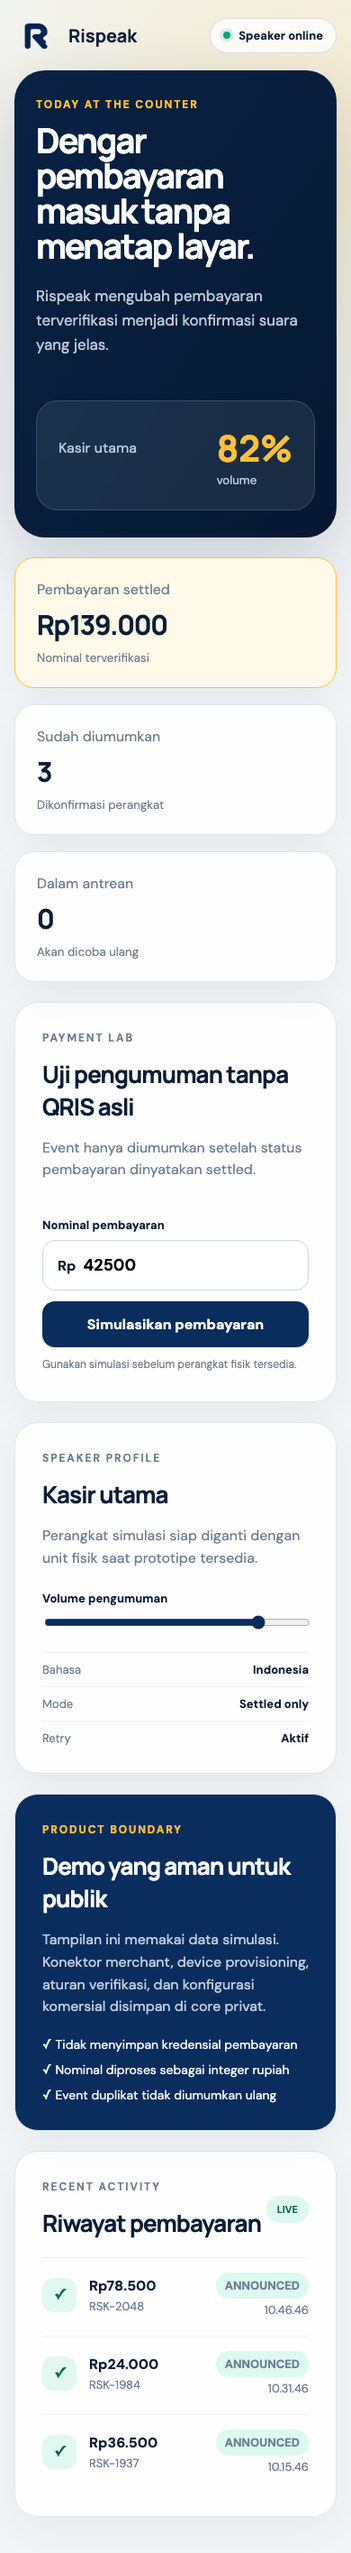
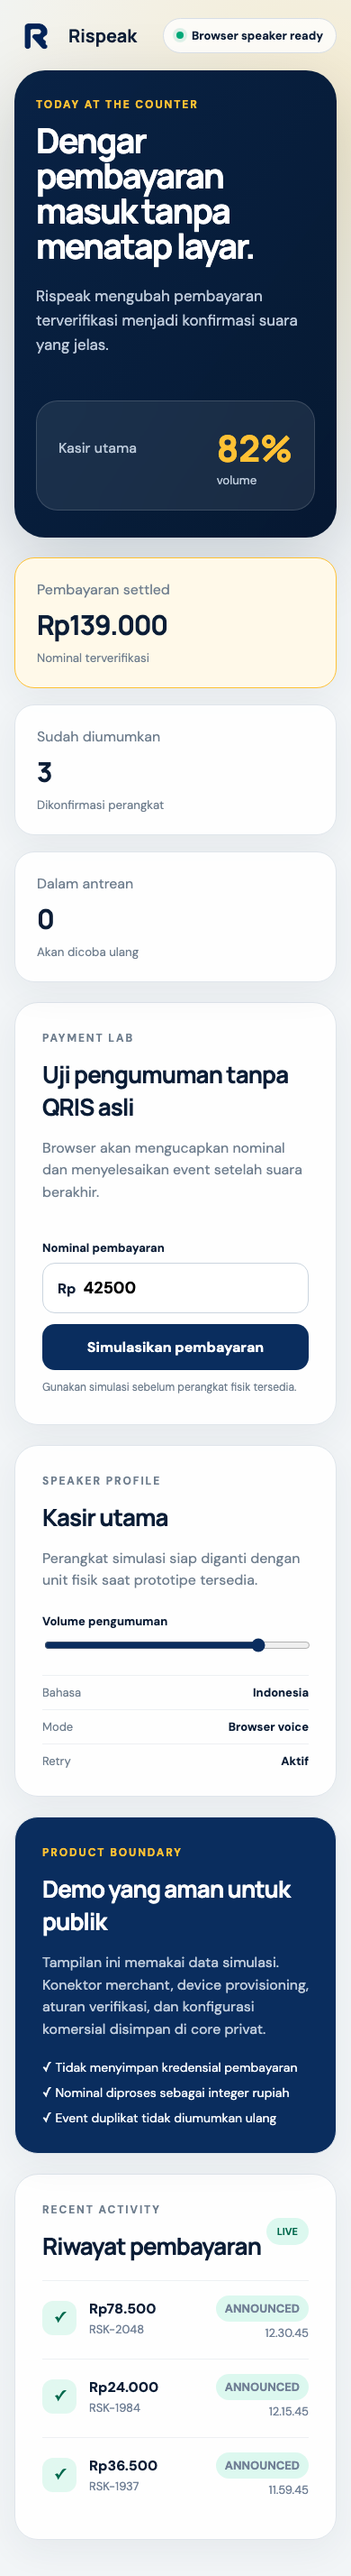
feat: add browser payment voice simulator

diff --git a/src/main.tsx b/src/main.tsx
@@ -1,10 +1,12 @@
-import { StrictMode, useMemo, useState } from 'react';
+import { StrictMode, useEffect, useMemo, useState } from 'react';
 import { createRoot } from 'react-dom/client';
 import { MetricCard } from './components/MetricCard';
 import { PaymentSimulator } from './components/PaymentSimulator';
 import { TransactionList } from './components/TransactionList';
 import { initialPayments, type DemoPayment } from './data/demo';
 import { calculateMetrics } from './data/metrics';
+import { formatPaymentAnnouncement } from './services/announcement';
+import { createBrowserSpeaker } from './services/browserSpeaker';
 import './styles/app.css';
 
 const rupiah = new Intl.NumberFormat('id-ID');
@@ -12,8 +14,12 @@ const rupiah = new Intl.NumberFormat('id-ID');
 function App() {
   const [payments, setPayments] = useState(initialPayments);
   const [volume, setVolume] = useState(82);
+  const [speakerState, setSpeakerState] = useState<'ready' | 'speaking' | 'error'>('ready');
+  const speaker = useMemo(() => createBrowserSpeaker(), []);
 
   const metrics = useMemo(() => calculateMetrics(payments), [payments]);
+
+  useEffect(() => () => speaker.cancel(), [speaker]);
 
   const simulate = async (amountRupiah: number) => {
     const id = `demo-${Date.now()}`;
@@ -27,11 +33,28 @@ function App() {
     };
     setPayments((current) => [payment, ...current]);
 
-    await new Promise((resolve) => window.setTimeout(resolve, 900));
-    setPayments((current) =>
-      current.map((item) => (item.id === id ? { ...item, announcementStatus: 'announced' } : item)),
-    );
+    setSpeakerState('speaking');
+    try {
+      await speaker.speak(formatPaymentAnnouncement(amountRupiah), volume);
+      setPayments((current) =>
+        current.map((item) =>
+          item.id === id ? { ...item, announcementStatus: 'announced' } : item,
+        ),
+      );
+      setSpeakerState('ready');
+    } catch (error) {
+      setSpeakerState('error');
+      throw error;
+    }
   };
+
+  const speakerLabel = !speaker.supported
+    ? 'Speech unavailable'
+    : speakerState === 'speaking'
+      ? 'Speaking payment'
+      : speakerState === 'error'
+        ? 'Speaker needs attention'
+        : 'Browser speaker ready';
 
   return (
     <div className="app-shell">
@@ -46,7 +69,7 @@ function App() {
         <div className="topbar-actions">
           <span className="demo-badge">Portfolio demo</span>
           <div className="device-pill">
-            <i className="online" /> Speaker online
+            <i className={speaker.supported ? speakerState : 'error'} /> {speakerLabel}
           </div>
         </div>
       </header>
@@ -107,7 +130,7 @@ function App() {
                 Bahasa <strong>Indonesia</strong>
               </span>
               <span>
-                Mode <strong>Settled only</strong>
+                Mode <strong>Browser voice</strong>
               </span>
               <span>
                 Retry <strong>Aktif</strong>

diff --git a/tests/browserSpeaker.test.ts b/tests/browserSpeaker.test.ts
@@ -1,0 +1,73 @@
+import { describe, expect, it, vi } from 'vitest';
+import { createBrowserSpeaker } from '../src/services/browserSpeaker';
+
+class FakeUtterance {
+  lang = '';
+  rate = 1;
+  pitch = 1;
+  volume = 1;
+  voice: SpeechSynthesisVoice | null = null;
+  onend: (() => void) | null = null;
+  onerror: (() => void) | null = null;
+
+  constructor(readonly text: string) {}
+}
+
+describe('createBrowserSpeaker', () => {
+  it('resolves only after the browser finishes speaking', async () => {
+    let activeUtterance: FakeUtterance | undefined;
+    const cancel = vi.fn();
+    const synthesis = {
+      cancel,
+      getVoices: () => [],
+      speak: (utterance: FakeUtterance) => {
+        activeUtterance = utterance;
+      },
+    };
+    const browser = {
+      clearTimeout,
+      setTimeout,
+      speechSynthesis: synthesis,
+      SpeechSynthesisUtterance: FakeUtterance,
+    } as unknown as Window & typeof globalThis;
+    const speaker = createBrowserSpeaker(browser);
+
+    let finished = false;
+    const playback = speaker.speak('Pembayaran diterima.', 64).then(() => {
+      finished = true;
+    });
+
+    expect(finished).toBe(false);
+    expect(activeUtterance?.lang).toBe('id-ID');
+    expect(activeUtterance?.volume).toBe(0.64);
+    activeUtterance?.onend?.();
+    await playback;
+    expect(finished).toBe(true);
+  });
+
+  it('rejects playback when speech synthesis is unavailable', async () => {
+    const browser = {} as Window & typeof globalThis;
+    const speaker = createBrowserSpeaker(browser);
+
+    await expect(speaker.speak('Pembayaran diterima.', 80)).rejects.toThrow('belum mendukung');
+  });
+
+  it('cancels speech that never reports completion', async () => {
+    vi.useFakeTimers();
+    const cancel = vi.fn();
+    const browser = {
+      clearTimeout,
+      setTimeout,
+      speechSynthesis: { cancel, getVoices: () => [], speak: () => undefined },
+      SpeechSynthesisUtterance: FakeUtterance,
+    } as unknown as Window & typeof globalThis;
+    const speaker = createBrowserSpeaker(browser, 100);
+    const playback = speaker.speak('Pembayaran diterima.', 80);
+    const rejection = expect(playback).rejects.toThrow('tidak menyelesaikan');
+
+    await vi.advanceTimersByTimeAsync(100);
+    await rejection;
+    expect(cancel).toHaveBeenCalledOnce();
+    vi.useRealTimers();
+  });
+});

diff --git a/src/services/browserSpeaker.ts b/src/services/browserSpeaker.ts
@@ -1,0 +1,61 @@
+export interface BrowserSpeaker {
+  readonly supported: boolean;
+  speak(message: string, volumePercent: number): Promise<void>;
+  cancel(): void;
+}
+
+type SpeechWindow = Window &
+  typeof globalThis & {
+    speechSynthesis?: SpeechSynthesis;
+    SpeechSynthesisUtterance?: typeof SpeechSynthesisUtterance;
+  };
+
+function findIndonesianVoice(synthesis: SpeechSynthesis): SpeechSynthesisVoice | undefined {
+  return synthesis.getVoices().find((voice) => voice.lang.toLowerCase().startsWith('id'));
+}
+
+export function createBrowserSpeaker(
+  browser: SpeechWindow = window,
+  timeoutMs = 15_000,
+): BrowserSpeaker {
+  const synthesis = browser.speechSynthesis;
+  const Utterance = browser.SpeechSynthesisUtterance;
+  const supported = Boolean(synthesis && Utterance);
+
+  return {
+    supported,
+    cancel: () => synthesis?.cancel(),
+    speak: (message, volumePercent) => {
+      if (!synthesis || !Utterance) {
+        return Promise.reject(new Error('Browser ini belum mendukung simulasi suara.'));
+      }
+
+      return new Promise<void>((resolve, reject) => {
+        const utterance = new Utterance(message);
+        let completed = false;
+        const finish = (callback: () => void) => {
+          if (completed) return;
+          completed = true;
+          browser.clearTimeout(timeout);
+          callback();
+        };
+        const timeout = browser.setTimeout(() => {
+          synthesis.cancel();
+          finish(() =>
+            reject(new Error('Browser tidak menyelesaikan pemutaran suara. Coba Chrome.')),
+          );
+        }, timeoutMs);
+
+        utterance.lang = 'id-ID';
+        utterance.rate = 0.94;
+        utterance.pitch = 1;
+        utterance.volume = Math.min(1, Math.max(0, volumePercent / 100));
+        utterance.voice = findIndonesianVoice(synthesis) ?? null;
+        utterance.onend = () => finish(resolve);
+        utterance.onerror = () =>
+          finish(() => reject(new Error('Suara gagal diputar. Coba lagi atau ganti browser.')));
+        synthesis.speak(utterance);
+      });
+    },
+  };
+}

diff --git a/src/services/announcement.ts b/src/services/announcement.ts
@@ -1,0 +1,51 @@
+const smallNumbers = [
+  'nol',
+  'satu',
+  'dua',
+  'tiga',
+  'empat',
+  'lima',
+  'enam',
+  'tujuh',
+  'delapan',
+  'sembilan',
+  'sepuluh',
+  'sebelas',
+] as const;
+
+function spellPositiveInteger(value: number): string {
+  if (value < 12) return smallNumbers[value];
+  if (value < 20) return `${spellPositiveInteger(value - 10)} belas`;
+  if (value < 100) {
+    const remainder = value % 10;
+    return `${spellPositiveInteger(Math.floor(value / 10))} puluh${remainder ? ` ${spellPositiveInteger(remainder)}` : ''}`;
+  }
+  if (value < 200) return `seratus${value > 100 ? ` ${spellPositiveInteger(value - 100)}` : ''}`;
+  if (value < 1_000) {
+    const remainder = value % 100;
+    return `${spellPositiveInteger(Math.floor(value / 100))} ratus${remainder ? ` ${spellPositiveInteger(remainder)}` : ''}`;
+  }
+  if (value < 2_000)
+    return `seribu${value > 1_000 ? ` ${spellPositiveInteger(value - 1_000)}` : ''}`;
+  if (value < 1_000_000) return spellScale(value, 1_000, 'ribu');
+  if (value < 1_000_000_000) return spellScale(value, 1_000_000, 'juta');
+  if (value < 1_000_000_000_000) return spellScale(value, 1_000_000_000, 'miliar');
+  return spellScale(value, 1_000_000_000_000, 'triliun');
+}
+
+function spellScale(value: number, scale: number, label: string): string {
+  const remainder = value % scale;
+  const leading = spellPositiveInteger(Math.floor(value / scale));
+  return `${leading} ${label}${remainder ? ` ${spellPositiveInteger(remainder)}` : ''}`;
+}
+
+export function spellRupiah(amountRupiah: number): string {
+  if (!Number.isSafeInteger(amountRupiah) || amountRupiah <= 0) {
+    throw new Error('Payment amount must be a positive integer.');
+  }
+  return spellPositiveInteger(amountRupiah);
+}
+
+export function formatPaymentAnnouncement(amountRupiah: number): string {
+  return `Rispeak. Pembayaran diterima sebesar ${spellRupiah(amountRupiah)} rupiah.`;
+}

diff --git a/e2e/user-flow.spec.ts b/e2e/user-flow.spec.ts
@@ -1,5 +1,30 @@
 import { expect, test } from '@playwright/test';
 
+test.beforeEach(async ({ page }) => {
+  await page.addInitScript(() => {
+    class FakeUtterance {
+      lang = '';
+      rate = 1;
+      pitch = 1;
+      volume = 1;
+      voice = null;
+      onend: (() => void) | null = null;
+      onerror: (() => void) | null = null;
+
+      constructor(readonly text: string) {}
+    }
+
+    Object.defineProperty(window, 'SpeechSynthesisUtterance', { value: FakeUtterance });
+    Object.defineProperty(window, 'speechSynthesis', {
+      value: {
+        cancel: () => undefined,
+        getVoices: () => [],
+        speak: (utterance: FakeUtterance) => window.setTimeout(() => utterance.onend?.(), 50),
+      },
+    });
+  });
+});
+
 test('merchant simulates a payment and sees it announced', async ({ page }) => {
   await page.goto('/');
   await expect(page.getByRole('heading', { level: 1 })).toContainText('Dengar pembayaran');
@@ -8,7 +33,7 @@ test('merchant simulates a payment and sees it announced', async ({ page }) => {
   await amount.fill('61500');
   await page.getByRole('button', { name: 'Simulasikan pembayaran' }).click();
 
-  await expect(page.getByText('Pembayaran Rp61.500 masuk ke antrean suara.')).toBeVisible();
+  await expect(page.getByText('Pembayaran Rp61.500 berhasil diumumkan.')).toBeVisible();
   await expect(page.getByText('Rp61.500', { exact: true })).toBeVisible();
   await expect(page.locator('.transaction').first().getByText('announced')).toBeVisible();
 });

diff --git a/tests/announcement.test.ts b/tests/announcement.test.ts
@@ -1,0 +1,28 @@
+import { describe, expect, it } from 'vitest';
+import { formatPaymentAnnouncement, spellRupiah } from '../src/services/announcement';
+
+describe('spellRupiah', () => {
+  it.each([
+    [11, 'sebelas'],
+    [15, 'lima belas'],
+    [100, 'seratus'],
+    [1_000, 'seribu'],
+    [61_500, 'enam puluh satu ribu lima ratus'],
+    [1_250_000, 'satu juta dua ratus lima puluh ribu'],
+  ])('spells %i as Indonesian words', (amount, expected) => {
+    expect(spellRupiah(amount)).toBe(expected);
+  });
+
+  it('rejects invalid payment amounts', () => {
+    expect(() => spellRupiah(0)).toThrow('positive integer');
+    expect(() => spellRupiah(10.5)).toThrow('positive integer');
+  });
+});
+
+describe('formatPaymentAnnouncement', () => {
+  it('creates a concise payment sentence', () => {
+    expect(formatPaymentAnnouncement(24_000)).toBe(
+      'Rispeak. Pembayaran diterima sebesar dua puluh empat ribu rupiah.',
+    );
+  });
+});

diff --git a/src/components/PaymentSimulator.tsx b/src/components/PaymentSimulator.tsx
@@ -18,7 +18,7 @@ export function PaymentSimulator({ onSubmit }: PaymentSimulatorProps) {
     setBusy(true);
     try {
       await onSubmit(parsed);
-      setMessage(`Pembayaran Rp${parsed.toLocaleString('id-ID')} masuk ke antrean suara.`);
+      setMessage(`Pembayaran Rp${parsed.toLocaleString('id-ID')} berhasil diumumkan.`);
     } catch (error) {
       setMessage(error instanceof Error ? error.message : 'Simulasi gagal.');
     } finally {
@@ -31,7 +31,7 @@ export function PaymentSimulator({ onSubmit }: PaymentSimulatorProps) {
       <div>
         <p className="eyebrow">Payment lab</p>
         <h2>Uji pengumuman tanpa QRIS asli</h2>
-        <p>Event hanya diumumkan setelah status pembayaran dinyatakan settled.</p>
+        <p>Browser akan mengucapkan nominal dan menyelesaikan event setelah suara berakhir.</p>
       </div>
       <div className="amount-control">
         <label htmlFor="amount">Nominal pembayaran</label>

diff --git a/src/styles/base.css b/src/styles/base.css
@@ -114,6 +114,21 @@ h2,
   box-shadow: 0 0 0 4px rgba(0, 168, 120, 0.12);
 }
 
+.device-pill i.ready {
+  background: #00a878;
+  box-shadow: 0 0 0 4px rgba(0, 168, 120, 0.12);
+}
+
+.device-pill i.speaking {
+  background: #ffc134;
+  box-shadow: 0 0 0 4px rgba(255, 193, 52, 0.18);
+}
+
+.device-pill i.error {
+  background: #d14343;
+  box-shadow: 0 0 0 4px rgba(209, 67, 67, 0.14);
+}
+
 .hero {
   display: grid;
   grid-template-columns: 1fr auto;

diff --git a/README.md b/README.md
@@ -19,7 +19,8 @@ This public repository is the interactive product showcase. It proves the user j
 ## What can be evaluated
 
 - Simulate a settled payment without entering real merchant credentials.
-- Watch the event move through the announcement state.
+- Hear the amount spoken through the browser's Indonesian text-to-speech voice.
+- Watch the event remain queued until speech finishes, then move to the announced state.
 - Review settled volume, announced events, and queued work.
 - Adjust the simulated speaker volume.
 - Inspect the responsive counter experience on desktop and mobile.
@@ -64,7 +65,7 @@ Read [the public product boundary](./docs/product-boundary.md) before interpreti
 
 ## Status
 
-- Software MVP: working locally with a private service core and device simulator.
+- Software MVP: working locally with a private service core and browser speaker simulator.
 - Public showcase: interactive and safe to run without credentials.
 - Physical prototype: waiting for hardware selection and purchase.
 - Provider integration: waiting for access to an approved official interface.

diff --git a/docs/product-boundary.md b/docs/product-boundary.md
@@ -19,3 +19,5 @@ Rispeak is being designed as a commercial product. This repository exposes enoug
 - Commercial configuration and operational runbooks.
 
 The public demo makes no real payment claim and never requests merchant credentials.
+
+The browser speaker uses the operating system's installed text-to-speech voices. Payment text stays on the device from the application's perspective; voice availability and processing behavior depend on the selected browser and operating system.
